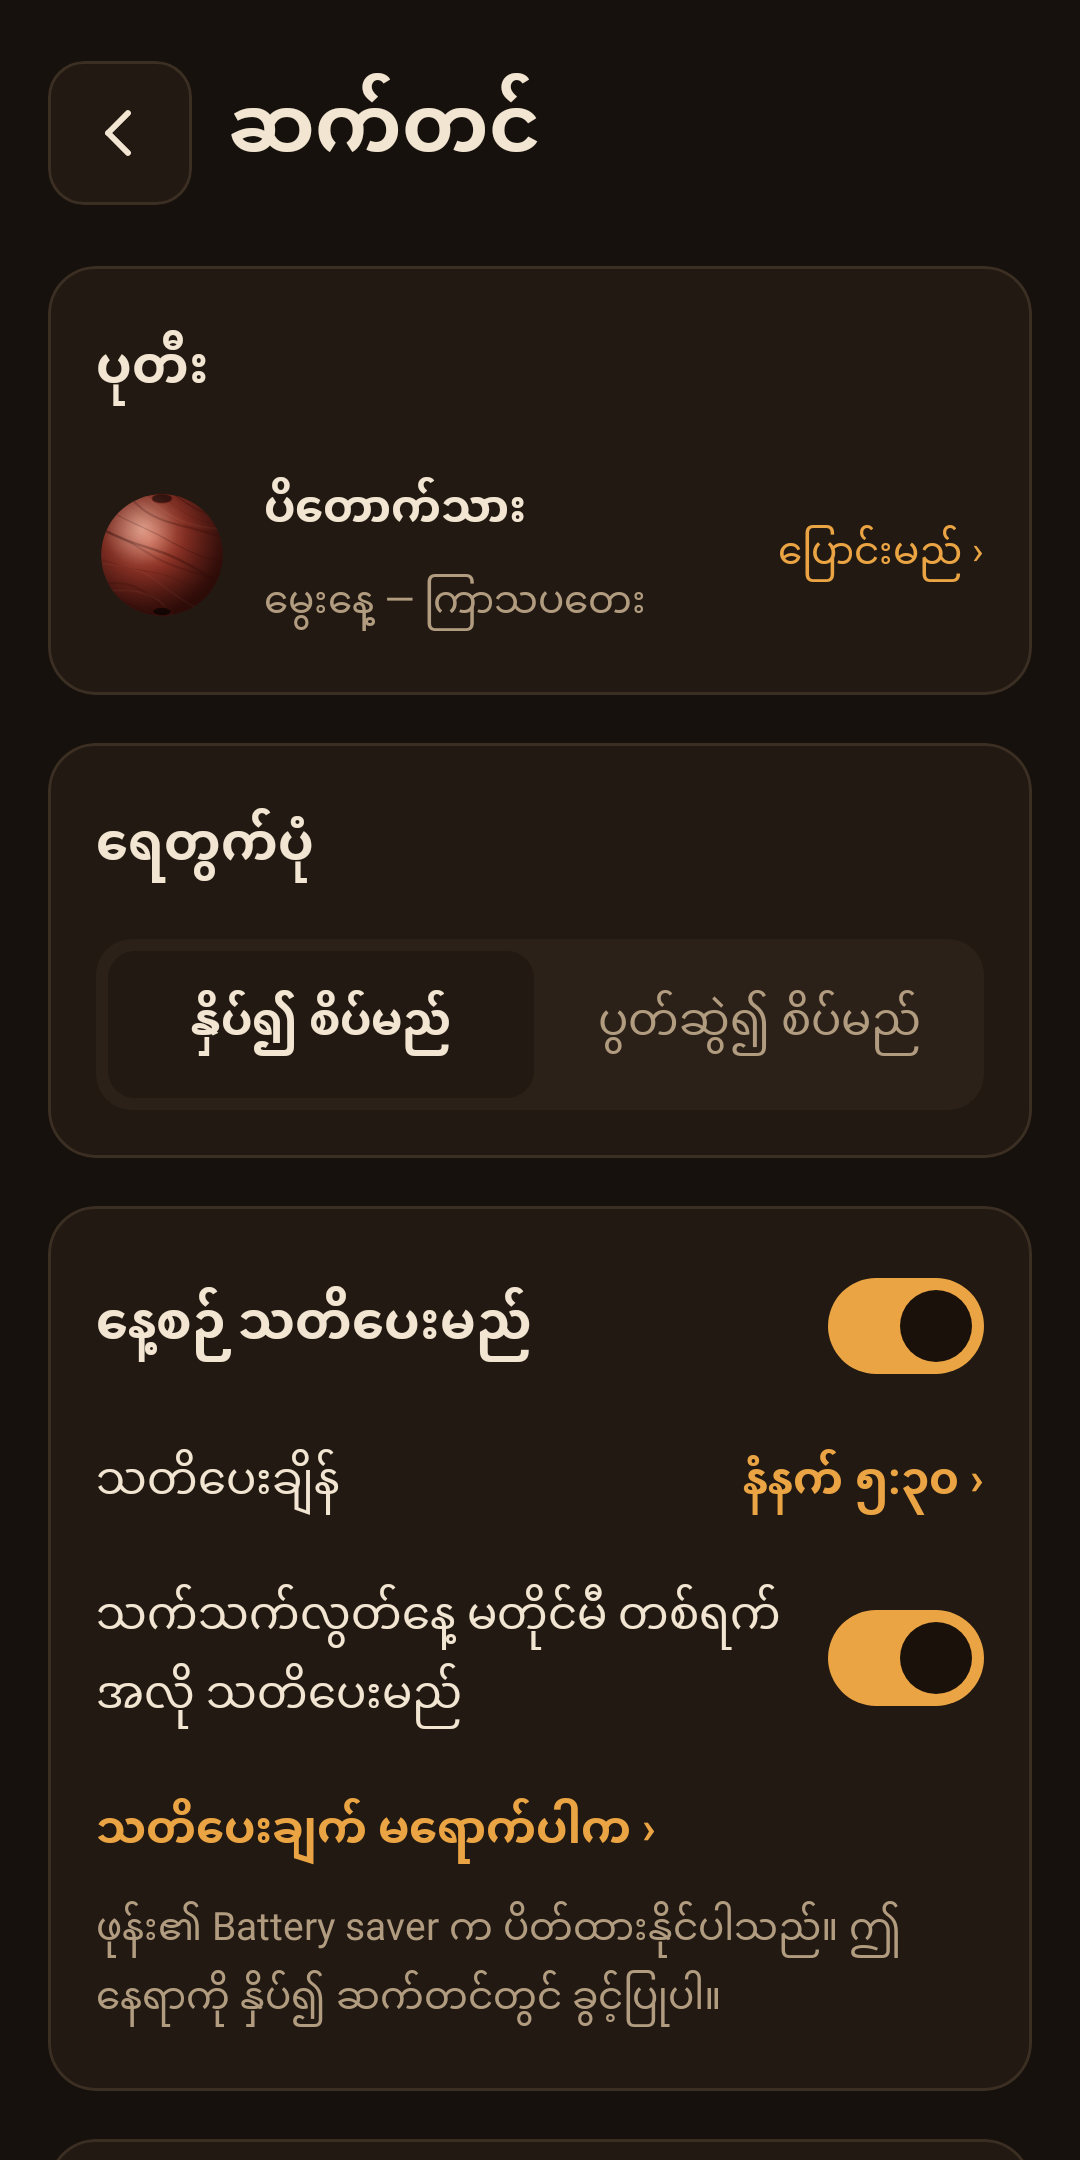
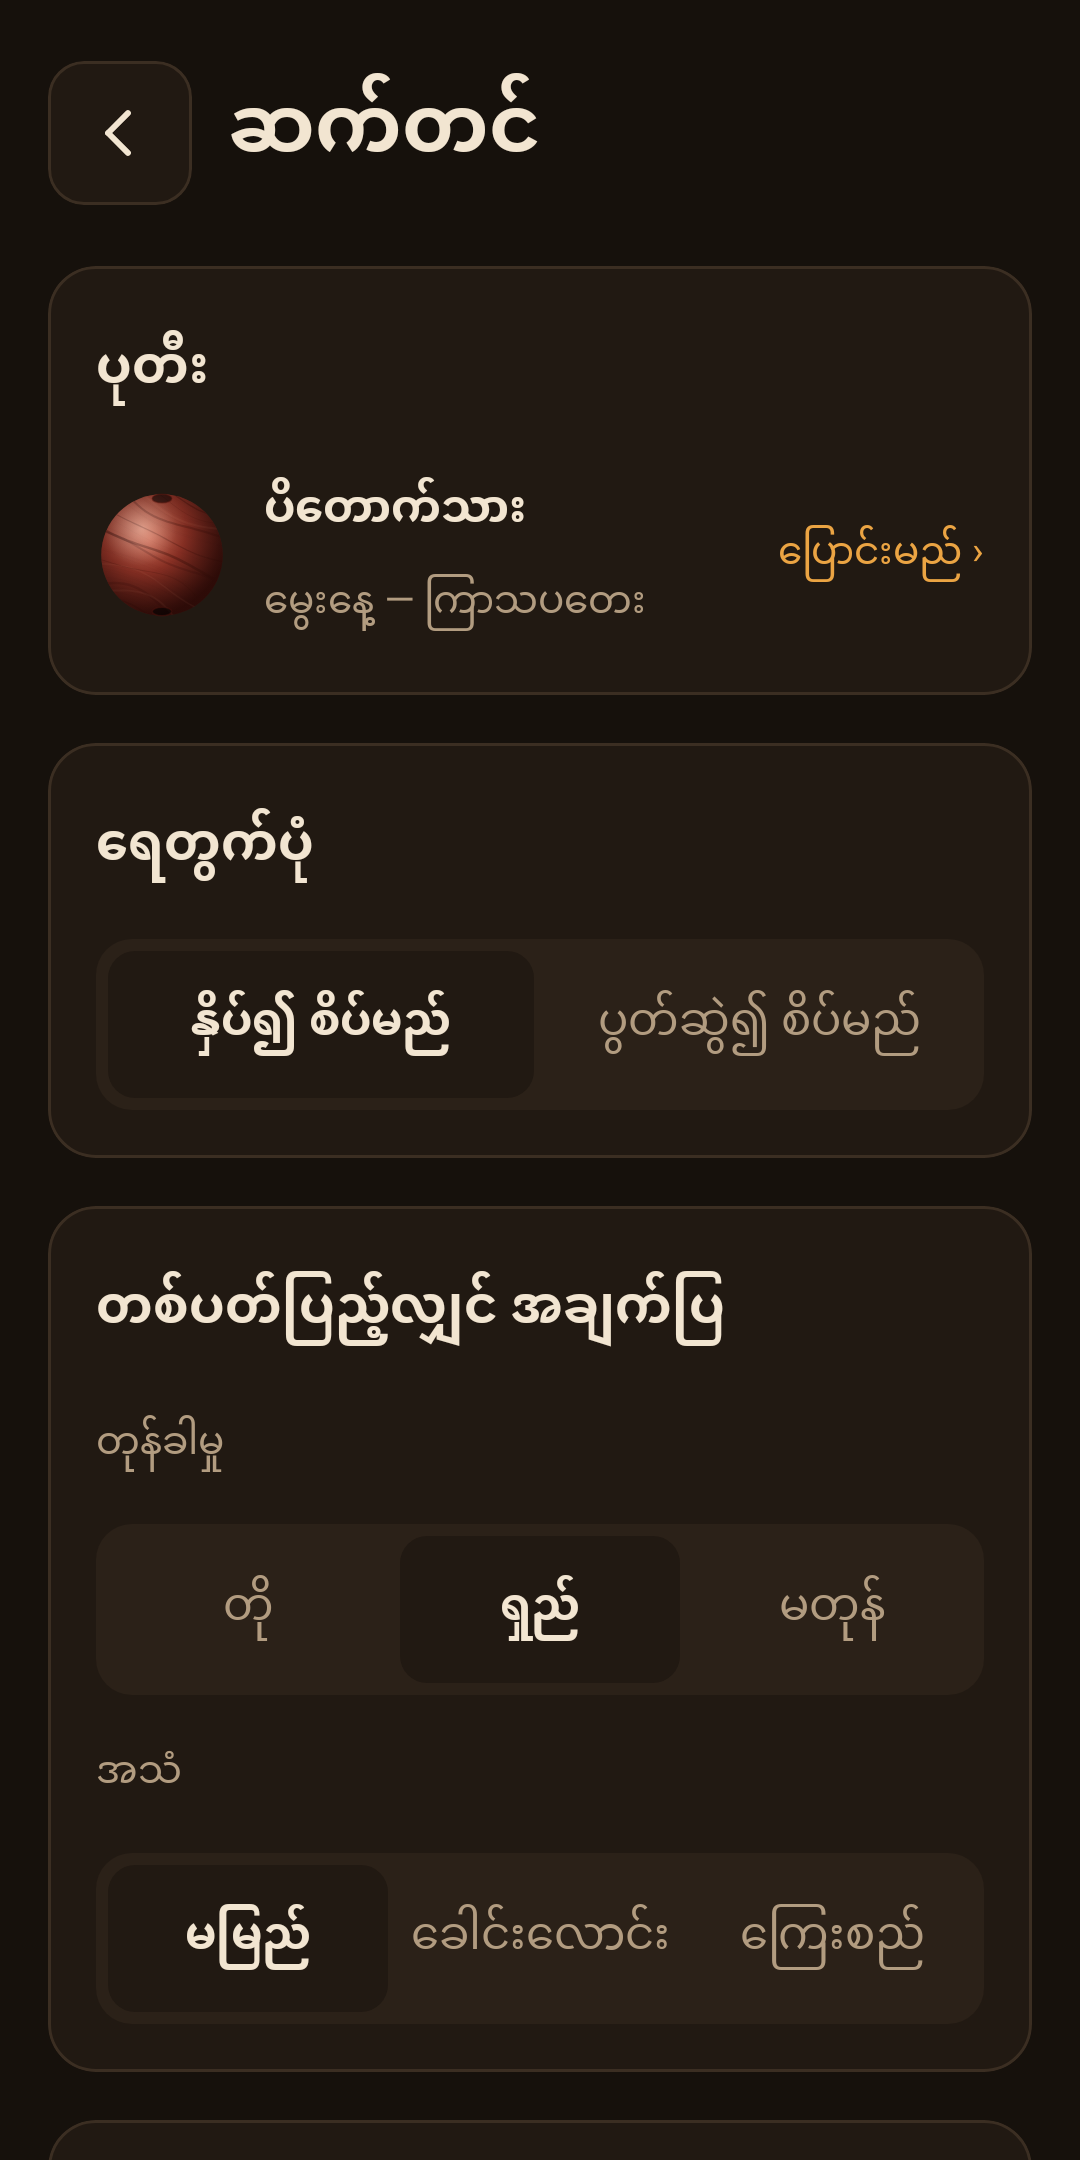
Name the first Play release 1.0.0
Same code as the 1.0.2 test build; versionCode stays 11 so it installs
over the test builds. Listing text, release notes, settings screenshot
and upload guide updated for the reset button and round signal.

Claude-Session: https://claude.ai/code/session_019Df7fuS7CeBg389ACv6fJ5

diff --git a/store/upload-guide.html b/store/upload-guide.html
@@ -43,10 +43,10 @@ a { color:var(--accent) }
 <main>
 <header class="hero"><img src="icon-512.png" alt="စိပ်ပုတီး app icon">
 <div><h1>Uploading <span class="mm">စိပ်ပုတီး</span> to Google Play</h1>
-<p class="sub">Version 1.0.0 (code 9) · package <code>com.satepadee.app</code> · every text below is ready to paste.</p></div></header>
+<p class="sub">Version 1.0.0 (version code 11) · package <code>com.satepadee.app</code> · every text below is ready to paste.</p></div></header>
 
 <section><h2><span class="n">1</span>Check the release build on your phone</h2>
-<p>The release build is smaller and optimised, so install <code>satepadee-1.0.0-release.apk</code> on your Redmi Note 7 or Mi Pad 5 first. Count a few beads, open every screen, set a reminder one minute ahead. If anything looks wrong, tell me before uploading.</p></section>
+<p>The release build is smaller and optimised, so install <code>satepadee-1.0.0-release.apk</code> on your Redmi Note 7 or Mi Pad 5 first. Uninstall the earlier test versions first. Count a full round to feel the long vibration, try the bell and gong in Settings, reset the free counter, and set a reminder one minute ahead. If anything looks wrong, tell me before uploading.</p></section>
 
 <section><h2><span class="n">2</span>Create the app</h2>
 <p>Play Console → <b>Create app</b>:</p>
@@ -63,7 +63,7 @@ a { color:var(--accent) }
 <div class="field"><div class="fh"><span class="lbl">Short description</span><span class="cnt">74 / 80</span>
 <button type="button" class="cp" data-k="short_my">Copy</button></div>
 <pre id="short_my" class="">ကိုးနဝင်း နှင့် နေ့စဉ် ပုတီးစိပ်ရန် — တို့ သို့ ပွတ်ဆွဲ ရေတွက်၊ သတိပေးချက်</pre></div>
-<div class="field"><div class="fh"><span class="lbl">Full description</span><span class="cnt">1228 / 4000</span>
+<div class="field"><div class="fh"><span class="lbl">Full description</span><span class="cnt">1358 / 4000</span>
 <button type="button" class="cp" data-k="full_my">Copy</button></div>
 <pre id="full_my" class="tall">စိပ်ပုတီး သည် မြန်မာဗုဒ္ဓဘာသာဝင်များအတွက် ရိုးရှင်းသော ပုတီးစိပ် ရေတွက်စက် ဖြစ်ပါသည်။
 
@@ -77,11 +77,12 @@ a { color:var(--accent) }
 ◆ ကိုယ်ပိုင် ပုတီး
 • မေတ္တာပို့၊ ဘုရားဂုဏ်တော် စသည်ဖြင့် ကိုယ်တိုင် ထည့်နိုင်၊ ပြင်နိုင်ပါသည်။
 • တစ်ပတ်လျှင် လုံးရေ၊ နေ့စဉ် ပတ်ရေ နှင့် သတိပေးချိန်ကို သတ်မှတ်နိုင်ပါသည်။
-• စိပ်ပုတီး (အလွတ်) ဖြင့် လွတ်လပ်စွာ ရေတွက်နိုင်ပါသည်။
+• စိပ်ပုတီး (အလွတ်) ဖြင့် လွတ်လပ်စွာ ရေတွက်နိုင်ပြီး လိုသည့်အခါ သုညမှ ပြန်စနိုင်ပါသည်။
 
 ◆ ပုတီးစိပ်ရသည့် ခံစားချက်
 • မျက်နှာပြင်ကို တို့၍ သို့မဟုတ် ပွတ်ဆွဲ၍ ရေတွက်နိုင်ပါသည်။ ပွတ်ဆွဲတစ်ကြိမ်လျှင် ပုတီးတစ်လုံးသာ ရေတွက်ပါသည်။
 • ပုတီးလုံးများ လက်ထဲတွင် လှိမ့်သွားသကဲ့သို့ မြင်ရပြီး တစ်လုံးချင်း တုန်ခါမှုဖြင့် သိနိုင်ပါသည်။
+• တစ်ပတ်ပြည့်တိုင်း ရှည်သော တုန်ခါမှု သို့မဟုတ် ခေါင်းလောင်း၊ ကြေးစည် အသံဖြင့် အချက်ပြနိုင်ပါသည်။
 • နေ့နံအလိုက် သင့်တော်သော သစ်သားပုတီး (ပိတောက်၊ ကံ့ကော်၊ သီး၊ ထိန် စသည်) ကို ရွေးနိုင်ပါသည်။
 
 ◆ ရိုးရှင်းပြီး လုံခြုံသည်
@@ -97,7 +98,7 @@ a { color:var(--accent) }
 <div class="field"><div class="fh"><span class="lbl">Short description (English)</span><span class="cnt">75 / 80</span>
 <button type="button" class="cp" data-k="short_en">Copy</button></div>
 <pre id="short_en" class="">Prayer bead counter for Myanmar Buddhists, with the Kozawin 81-day practice</pre></div>
-<div class="field"><div class="fh"><span class="lbl">Full description (English)</span><span class="cnt">843 / 4000</span>
+<div class="field"><div class="fh"><span class="lbl">Full description (English)</span><span class="cnt">950 / 4000</span>
 <button type="button" class="cp" data-k="full_en">Copy</button></div>
 <pre id="full_en" class="tall">Sate Pa Dee (စိပ်ပုတီး) is a simple prayer-bead counter for Myanmar Buddhists. The app is in Myanmar language.
 
@@ -109,11 +110,12 @@ Kozawin (ကိုးနဝင်း)
 
 Your own recitations
 • Add and edit your own recitations with beads per round, daily rounds and a reminder time.
-• A free counter for any recitation.
+• A free counter for any recitation, with a reset button.
 
 Counting
 • Count by tapping or swiping. One swipe counts exactly one bead.
 • Close-up rolling wooden beads with a vibration for each bead.
+• At the end of each round: a long vibration, a temple bell or a gong, as you choose.
 • Choose a wood that suits your birth day.
 
 Private and offline
@@ -147,9 +149,9 @@ Private and offline
 <li>Countries: Myanmar plus where your testers live.</li>
 <li>Create release → upload <code>satepadee-1.0.0.aab</code>. Accept <b>Play App Signing</b> when asked.</li>
 <li>Release notes (my-MM):</li></ol>
-<div class="field"><div class="fh"><span class="lbl">Release notes</span><span class="cnt">150 / 500</span>
+<div class="field"><div class="fh"><span class="lbl">Release notes</span><span class="cnt">206 / 500</span>
 <button type="button" class="cp" data-k="notes_my">Copy</button></div>
-<pre id="notes_my" class="">စိပ်ပုတီး ပထမဆုံး ဗားရှင်း — ကိုးနဝင်း ရက် ၈၁ ရက် ဇယား၊ ကိုယ်ပိုင် ပုတီးများ၊ တို့/ပွတ်ဆွဲ ရေတွက်ခြင်း၊ နေ့နံသင့် သစ်သားပုတီး နှင့် နေ့စဉ် သတိပေးချက်။</pre></div>
+<pre id="notes_my" class="">စိပ်ပုတီး ပထမဆုံး ဗားရှင်း — ကိုးနဝင်း ရက် ၈၁ ရက် ဇယား၊ ကိုယ်ပိုင် ပုတီးများ၊ တို့/ပွတ်ဆွဲ ရေတွက်ခြင်း၊ နေ့နံသင့် သစ်သားပုတီး၊ တစ်ပတ်ပြည့် အချက်ပြ (တုန်ခါမှု၊ ခေါင်းလောင်း၊ ကြေးစည်) နှင့် နေ့စဉ် သတိပေးချက်။</pre></div>
 <ol start="6"><li>Review and roll out. Send testers the <b>opt-in link</b>; each one must join and keep the app installed.</li>
 <li>After 14 days: Dashboard → <b>Apply for production</b>, answer the short questionnaire, then promote the same release.</li></ol></section>
 

diff --git a/tools/upload_guide.py b/tools/upload_guide.py
@@ -60,10 +60,10 @@ a {{ color:var(--accent) }}
 <main>
 <header class="hero"><img src="icon-512.png" alt="စိပ်ပုတီး app icon">
 <div><h1>Uploading <span class="mm">စိပ်ပုတီး</span> to Google Play</h1>
-<p class="sub">Version 1.0.0 (code 9) · package <code>com.satepadee.app</code> · every text below is ready to paste.</p></div></header>
+<p class="sub">Version 1.0.0 (version code 11) · package <code>com.satepadee.app</code> · every text below is ready to paste.</p></div></header>
 
 <section><h2><span class="n">1</span>Check the release build on your phone</h2>
-<p>The release build is smaller and optimised, so install <code>satepadee-1.0.0-release.apk</code> on your Redmi Note 7 or Mi Pad 5 first. Count a few beads, open every screen, set a reminder one minute ahead. If anything looks wrong, tell me before uploading.</p></section>
+<p>The release build is smaller and optimised, so install <code>satepadee-1.0.0-release.apk</code> on your Redmi Note 7 or Mi Pad 5 first. Uninstall the earlier test versions first. Count a full round to feel the long vibration, try the bell and gong in Settings, reset the free counter, and set a reminder one minute ahead. If anything looks wrong, tell me before uploading.</p></section>
 
 <section><h2><span class="n">2</span>Create the app</h2>
 <p>Play Console → <b>Create app</b>:</p>

diff --git a/docs/PLAN.md b/docs/PLAN.md
@@ -94,9 +94,9 @@ Round / day / stage complete → History → Settings.
 - Figma design: https://www.figma.com/design/kboHMgjsGdaUGQxLkyELks
 - Clickable prototype: https://claude.ai/artifact/N2zqp83giaeKZwEhrx665g
 - Canva mockups: https://canva.link/jjicn7pxz4aj7pw · icon draft: https://canva.link/soxphoh3scakwzi
-- Latest build: 1.0.2 (release, versionCode 11; end-of-round vibration and bell/gong sound in settings) (reminders for own ပုတီး; string through bead holes)
+- Latest build: 1.0.0 (release for Play, versionCode 11; includes free-counter reset and end-of-round signal) (reminders for own ပုတီး; string through bead holes)
 
-## Google Play release (1.0.0)
+## Google Play release (1.0.0, versionCode 11)
 - Upload guide: https://claude.ai/artifact/VC71MrJz5Mhj7sAcKBauN6 (source `store/upload-guide.html`, built by `tools/upload_guide.py` from `store/listing.json`).
 - Privacy policy: Google Doc in the Drive folder; publish it to the web and use the `/pub` link. Text also in `store/privacy-policy.md`.
 - Store graphics and screenshots: `store/`. Regenerate with `./gradlew :app:testDebugUnitTest --tests '*StoreAssetsTest*'` then `python3 tools/icon_layers.py` (also rewrites the launcher icons).
